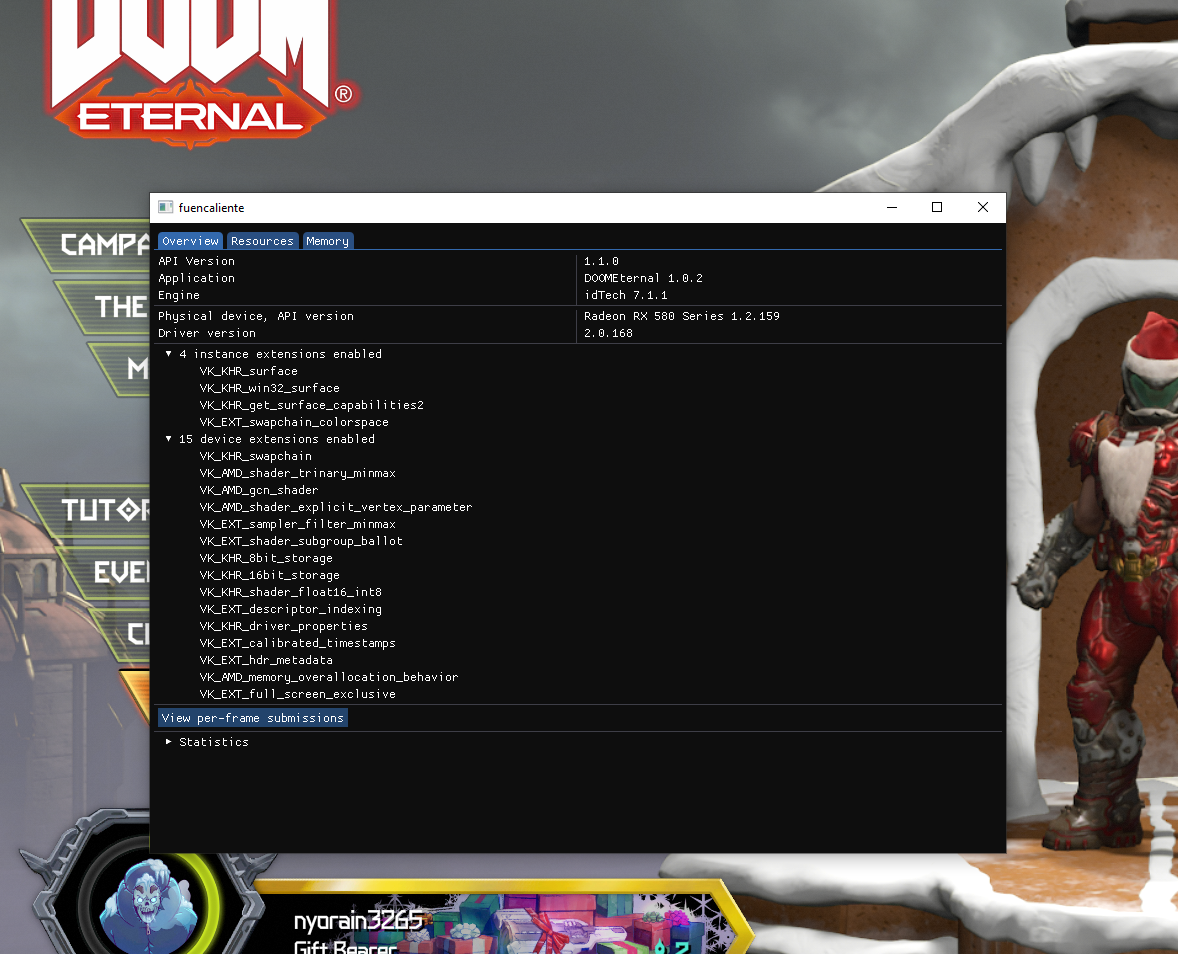
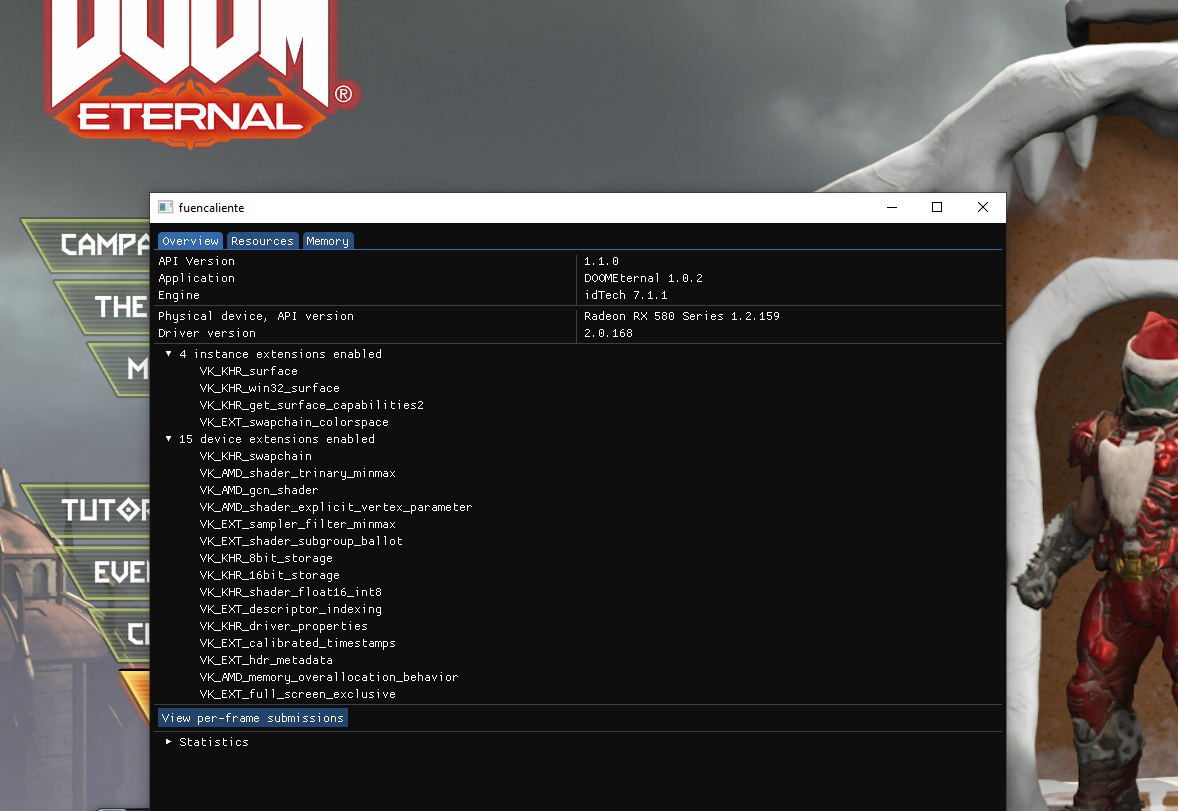
Update naming

diff --git a/include/vlid_api.h b/include/vlid_api.h
@@ -1,3 +1,16 @@
+// vlid: Vulkan Live Introspection & Debugging Layer.
+// Copyright (C) 2020-2021 Jan Kelling
+// This program is free software: you can redistribute it and/or modify
+// it under the terms of the GNU General Public License as published by
+// the Free Software Foundation, version 3.
+// This program is distributed in the hope that it will be useful,
+// but WITHOUT ANY WARRANTY; without even the implied warranty of
+// MERCHANTABILITY or FITNESS FOR A PARTICULAR PURPOSE. See the
+// GNU General Public License for more details.
+// You should have received a copy of the GNU General Public License
+// along with this program.  If not, see <http://www.gnu.org/licenses/>.
+// SPDX-License-Identifier: GPL-3.0-only
+
 #pragma once
 
 #include <stdbool.h>
@@ -99,14 +112,14 @@ static inline int fuenLoadApi(FuenApi* api) {
 #if defined(_WIN32) || defined(__CYGWIN__)
 	// TODO: name of dll depends on compiler used. For MSC it does not
 	// have the lib prefix, for gcc/mingw it does.
-	HMODULE handle = GetModuleHandleA("VkLayer_fuencaliente.dll");
+	HMODULE handle = GetModuleHandleA("VkLayer_vlid.dll");
 
 	// We don't have to call FreeLibrary since GetModuleHandle does not increase ref count
 	#define fuenCloseLib()
 	#define fuenLoadSym(procName) *(FARPROC*) (&api->procName) = GetProcAddress(handle, "fuen" #procName)
 	// #define fuenError() GetLastError()
 #else
-	void* handle = dlopen("libVkLayer_fuencaliente.so", RTLD_NOLOAD | RTLD_LAZY);
+	void* handle = dlopen("libVkLayer_vlid.so", RTLD_NOLOAD | RTLD_LAZY);
 
 	// We have to call dlclose since our dlopen increases the reference count.
 	#define fuenCloseLib() dlclose(handle)

diff --git a/src/win32.cpp b/src/win32.cpp
@@ -86,7 +86,7 @@ bool Win32Platform::checkPressed(u32 key) const {
 // from platform.cpp
 bool updateEdge(bool& val, bool pressed);
 
-constexpr auto windowClassName = L"fuencaliente";
+constexpr auto windowClassName = L"vlid";
 
 // from swa
 #define print_winapi_error(func) do { \
@@ -204,7 +204,7 @@ void Win32Platform::initWindow() {
 	auto height = 5;
 	auto hinstance = GetModuleHandle(NULL);
 
-	overlayWindow = CreateWindowEx(exstyle, windowClassName, L"fuencaliente", style, 
+	overlayWindow = CreateWindowEx(exstyle, windowClassName, L"vlid", style, 
 		x, y, width, height, NULL, NULL, hinstance, NULL);
 	if(!overlayWindow) {
 		print_winapi_error("CreateWindowEx");

diff --git a/src/window.cpp b/src/window.cpp
@@ -344,7 +344,7 @@ void DisplayWindow::uiThread() {
 
 		// step 0: display creation
 		dlg_assert(state_.load() == State::createDisplay);
-		dpy = swa_display_autocreate("fuencaliente");
+		dpy = swa_display_autocreate("vlid");
 		if (!dpy) {
 			state_.store(State::shutdown);
 			cv_.notify_one();
@@ -377,7 +377,7 @@ void DisplayWindow::uiThread() {
 
 		swa_window_settings ws;
 		swa_window_settings_default(&ws);
-		ws.title = "fuencaliente";
+		ws.title = "vlid";
 		ws.listener = &listener;
 		ws.surface = swa_surface_vk;
 		ws.surface_settings.vk.instance = bit_cast<std::uintptr_t>(this->ini->handle);

diff --git a/src/gui/resources.cpp b/src/gui/resources.cpp
@@ -850,7 +850,7 @@ void ResourceGui::drawDesc(Draw&, GraphicsPipeline& pipe) {
 			if(ImGui::Button("Open in Vim")) {
 				namespace fs = std::filesystem;
 
-				auto fileName = dlg::format("fuencaliente.{}.spv", (std::uint64_t) stage.spirv.get());
+				auto fileName = dlg::format("vlid.{}.spv", (std::uint64_t) stage.spirv.get());
 				auto tmpPath = fs::temp_directory_path() / fileName;
 
 				bool launch = false;

diff --git a/docs/example/main.c b/docs/example/main.c
@@ -722,7 +722,7 @@ bool init_instance(struct state* state, unsigned n_dpy_exts,
 	// We always fuen fuen *before* the validation layer so our calls
 	// in fuen can be validated as well.
 	if(use_fuen) {
-		layers[nlayers++] = "VK_LAYER_fuencaliente";
+		layers[nlayers++] = "VK_LAYER_vlid";
 	}
 	if(use_validation) {
 		layers[nlayers++] = "VK_LAYER_KHRONOS_validation";

diff --git a/src/xlib.cpp b/src/xlib.cpp
@@ -28,7 +28,7 @@ struct X11Platform : SwaPlatform {
 
 void X11Platform::init(Device& dev, unsigned width, unsigned height) {
 	// init display
-	dpy = swa_display_x11_create("fuencaliente");
+	dpy = swa_display_x11_create("vlid");
 	dlg_assert(dpy);
 
 	this->connection = swa_display_x11_connection(dpy);

diff --git a/src/gui/gui.cpp b/src/gui/gui.cpp
@@ -961,7 +961,7 @@ void Gui::draw(Draw& draw, bool fullscreen) {
 		return flags;
 	};
 
-	if(ImGui::Begin("Fuencaliente", nullptr, flags)) {
+	if(ImGui::Begin("vlid", nullptr, flags)) {
 		if(ImGui::BeginTabBar("MainTabBar")) {
 			if(ImGui::BeginTabItem("Overview")) {
 				drawOverviewUI(draw);

diff --git a/src/platform.cpp b/src/platform.cpp
@@ -68,7 +68,7 @@ void SwaPlatform::initWindow(Device& dev, void* nativeParent,
 
 	swa_window_settings ws;
 	swa_window_settings_default(&ws);
-	ws.title = "fuencaliente";
+	ws.title = "vlid";
 	ws.width = width;
 	ws.height = height;
 	ws.listener = &listener;

diff --git a/readme.md b/readme.md
@@ -1,4 +1,4 @@
-# Fuencaliente
+# vlid: Vulkan Live Introspection & Debugging
 
 Vulkan in-app debugging layer that is able to provide
 live introspection via a debug window/overlay.
@@ -92,16 +92,16 @@ to install the library and layer config.
 
 On **windows**, layers are installed via registry entries, you have to add
 a registry entry in `HKEY_LOCAL_MACHINE\SOFTWARE\Khronos\Vulkan\ExplicitLayers` pointing to the generated layer config 
-json (that must be located in the same folder as `VkLayer_fuencaliente.dll`).
+json (that must be located in the same folder as `VkLayer_vlid.dll`).
 You can simply run the `register_layer.bat` script in the build directory. Note that it will require admin privileges
 to add the registry key. You should usually not run random batch scripts from the internet that require admin privileges,
 so feel free to do it manually in an admin prompt:
 
 ```
-REG ADD HKEY_LOCAL_MACHINE\SOFTWARE\Khronos\Vulkan\ExplicitLayers /v <filepath of VKLayer_fuencaliente.json> /t REG_DWORD /d 0
+REG ADD HKEY_LOCAL_MACHINE\SOFTWARE\Khronos\Vulkan\ExplicitLayers /v <filepath of VKLayer_vlid.json> /t REG_DWORD /d 0
 ```
 
-Where you replace `<filepath of VKLayer_fuencaliente.json>` with full file path of the generated `VKLayer_fuencaliente.json` file, e.g. `D:\code\vlid\build\vs19\VKLayer_fuencaliente.json`.
+Where you replace `<filepath of VKLayer_vlid.json>` with full file path of the generated `VKLayer_vlid.json` file, e.g. `D:\code\vlid\build\vs19\VKLayer_vlid.json`.
 
 Once installed, you have to make sure vulkan applications load `VK_LAYER_vlid`.
 Either pass it to your `VkInstanceCreateInfo` or enable it via environment variable `VK_INSTANCE_LAYERS=VK_LAYER_vlid`.
@@ -115,10 +115,10 @@ There are multiple ways of using this layer:
 
 - Make the layer create a new window holding the debug gui when the application starts.
   This is the current default, you can control it via the environment variable
-  'FUEN_CREATE_WINDOW={0, 1}'.
+  'VLID_CREATE_WINDOW={0, 1}'.
 - Make the layer draw an overlay over you application
 	- Since the layer gui still needs input you have to supply it via
-	  a non-vulkan api. See [include/fuen_api.h](include/fuen_api.h).
+	  a non-vulkan api. See [include/vlid_api.h](include/vlid_api.h).
 	  As soon as you call the API to create an overlay on a swapchain,
 	  the extra debug window will be closed (if there was one).
 	- Experimental: Make the layer hook the application's input
@@ -127,7 +127,7 @@ There are multiple ways of using this layer:
 	  not work with certain platforms/applications.
 	  This is not enabled by default (and might be disabled from the default
 	  build config or even completely removed from the layer in future).
-	  You can force it via the environment variable 'FUEN_HOOK_OVERLAY=1'.
+	  You can force it via the environment variable 'VLID_HOOK_OVERLAY=1'.
 
 The layer running gui inside an extra window in doom eternal:
 
@@ -177,9 +177,10 @@ Using the layer via an overlay inside the demo level of [vkQuake2](https://githu
 
 # License
 
+SPDX-License-Identifier: GPL-3.0-only
+
 Unless stated otherwise, code and assets in this repository are licensed under 
-GPLv3. Contributors [don't have to sign a CLA](https://drewdevault.com/2018/10/05/Dont-sign-a-CLA.html), 
-you own what you contribute back.
+GPLv3. Contributors [don't have to sign a CLA](https://drewdevault.com/2018/10/05/Dont-sign-a-CLA.html).
 
 Note that since this is a dynamically loaded vulkan layer and not a library 
 you link your application against, using this in production of proprietary 

diff --git a/docs/design.md b/docs/design.md
@@ -108,7 +108,7 @@ weird situations and additional cast and an additional dependency.
 
 # On vulkan host allocators
 
-A known issue of the fuencaliente design: host allocators might not
+A known issue of the vlid design: host allocators might not
 work a 100% correctly in all cases, consider this case:
 We have to keep a handle alive inside the layer while the application
 logically destroyed it. When we destroy the handle later on (after

diff --git a/docs/compute-only.md b/docs/compute-only.md
@@ -1,4 +1,4 @@
-# Using fuencaliente with compute-only vulkan applications
+# Using vlid with compute-only vulkan applications
 
 So in theory, this works perfectly well, without issues. The layer will
 create a window to display all state. In practice, there are a couple of things
